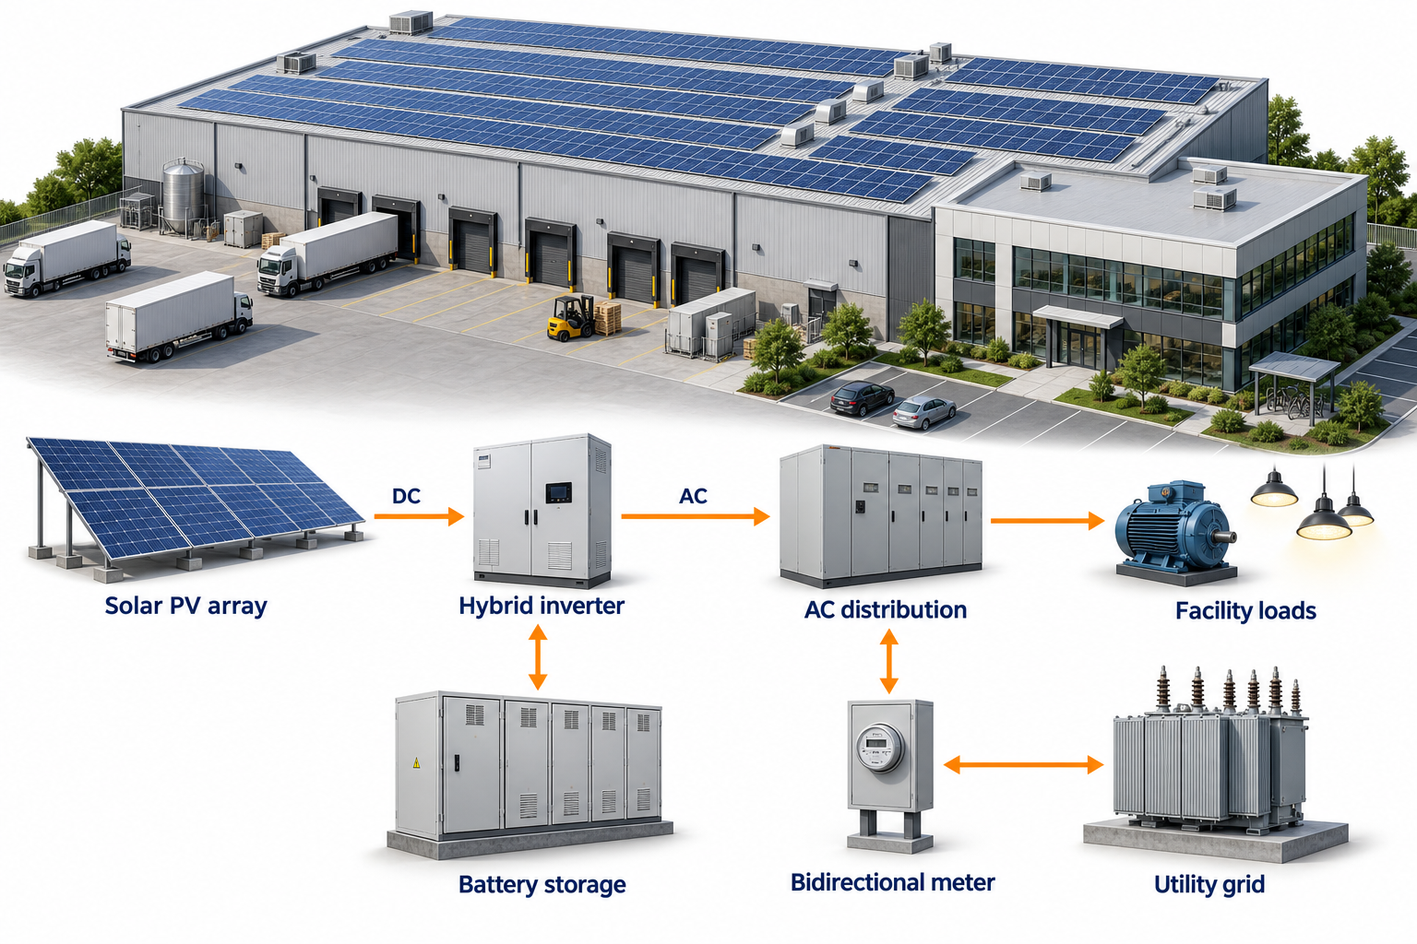
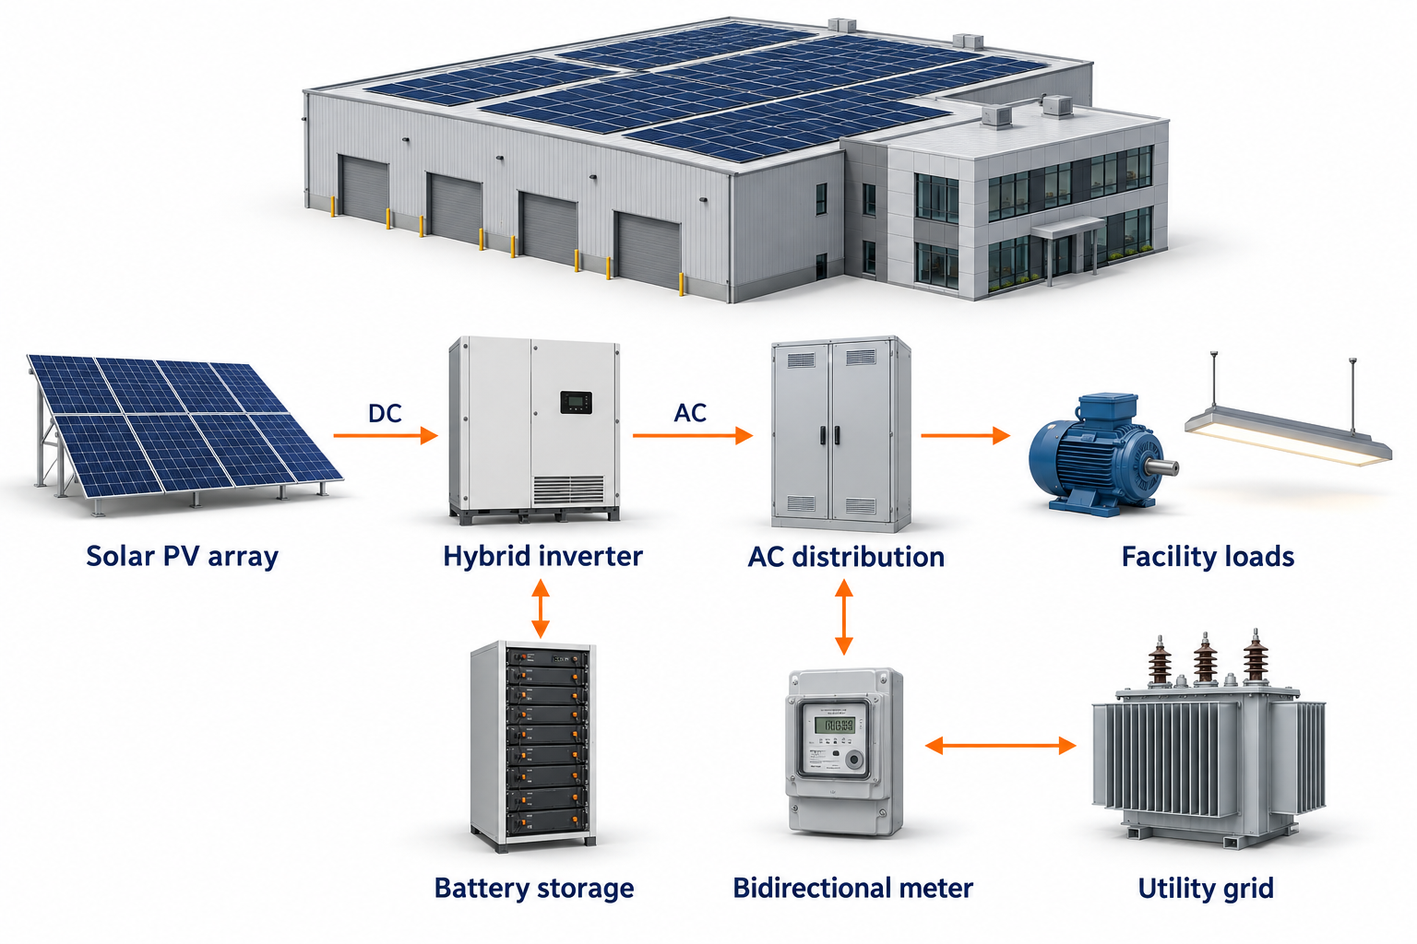
Refresh quotation component imagery and retain original cover

diff --git a/tools/quote-generator/quote-generator-component-images.js b/tools/quote-generator/quote-generator-component-images.js
@@ -1,103 +1,71 @@
-/** Real component photographs; provenance is also retained in assets/components/sources.json. */
+/** Component visuals and the explanations printed beside them. */
 (function (root) {
     'use strict';
 
     root.QuoteGeneratorComponentImages = {
         mounting: {
-            file: 'mounting.jpg',
+            file: 'mounting.png',
             label: 'Module support structure',
-            alt: 'PV mounting beams, support posts and foundations beneath an array.',
-            description: 'Rails, clamps and supporting members hold the array in position and transfer loads to the roof or foundation. The photograph shows a support example; fixings vary with the installation surface.',
-            width: 1600,
-            height: 1200,
-            author: 'Robert Scoble',
-            source: 'https://commons.wikimedia.org/wiki/File:Photovoltaic_mounting_system.jpg',
-            license: 'CC BY 2.0',
-            licenseUrl: 'https://creativecommons.org/licenses/by/2.0'
+            alt: 'Tilted module support frame showing rails, bracing, clamps and ballast feet.',
+            description: 'Rails, clamps and braced supports secure the modules and transfer loads to the installation surface. The fixing method, spacing and structural arrangement follow the detailed site design.',
+            width: 1536,
+            height: 1024
         },
         battery: {
-            file: 'battery.jpg',
+            file: 'battery.png',
             label: 'Battery energy storage',
-            alt: 'Containerised stationary battery energy storage installation.',
-            description: 'Battery systems combine storage modules, battery management and thermal control. This containerised example illustrates the equipment family; enclosure size and usable energy depend on the selected system.',
-            width: 1280,
-            height: 720,
-            author: 'Kecko from Eastern Switzerland',
-            source: 'https://commons.wikimedia.org/wiki/File:Tesvolt_battery_energy_storage_system_Rheineck.jpg',
-            license: 'CC BY 2.0',
-            licenseUrl: 'https://creativecommons.org/licenses/by/2.0'
+            alt: 'Modular rack battery cabinet with a controller and six battery modules.',
+            description: 'Rack modules store energy within a managed battery system. The controller monitors operating conditions, while the approved energy and power ratings determine the storage configuration.',
+            width: 1536,
+            height: 1024
         },
         dcdb: {
-            file: 'dcdb.jpg',
-            label: 'DC connection box',
-            alt: 'An open PV string connection box with labelled terminals.',
-            description: 'Example of labelled PV terminals. The system design specifies any required DC isolation, fusing and surge protection.',
-            width: 1161,
-            height: 1272,
-            author: 'Ja.hess10',
-            source: 'https://commons.wikimedia.org/wiki/File:Photovoltaic_Combiner_Box_20140710_151643.jpg',
-            license: 'CC BY-SA 4.0',
-            licenseUrl: 'https://creativecommons.org/licenses/by-sa/4.0'
+            file: 'dcdb.png',
+            label: 'DC distribution & protection',
+            alt: 'Open DC distribution enclosure with fuse holders, surge protection and an isolator.',
+            description: 'DC protection equipment brings string circuits together and provides the specified isolation, fusing and surge protection. Device ratings are coordinated with array voltage and current.',
+            width: 1536,
+            height: 1024
         },
         connectors: {
-            file: 'connectors.jpg',
+            file: 'connectors.png',
             label: 'Solar cables & connectors',
-            alt: 'Close views of MC4 photovoltaic cable connectors.',
+            alt: 'Coiled photovoltaic cable with a pair of locking solar connectors.',
             description: 'PV cables and compatible connectors link modules into strings. Their ratings and routing suit the array voltage and current.',
-            width: 1280,
-            height: 1972,
-            author: 'Orion Lawlor',
-            source: 'https://commons.wikimedia.org/wiki/File:MC4_Connector_Front_and_Top_View.jpg',
-            license: 'CC0',
-            licenseUrl: 'http://creativecommons.org/publicdomain/zero/1.0/deed.en'
+            width: 1536,
+            height: 1024
         },
         metering: {
-            file: 'metering.jpg',
+            file: 'metering.png',
             label: 'Energy metering',
-            alt: 'A three-phase digital electricity meter.',
+            alt: 'Three-phase digital electricity meter with a protected terminal compartment.',
             description: 'Meters record energy at agreed measurement points. The meter type and import/export arrangement follow the utility approval.',
-            width: 1280,
-            height: 961,
-            author: '277volts',
-            source: 'https://commons.wikimedia.org/wiki/File:Aclara_kV2c_FITZALL_3-phase_smart_electricity_meter.jpg',
-            license: 'CC BY-SA 4.0',
-            licenseUrl: 'https://creativecommons.org/licenses/by-sa/4.0'
+            width: 1536,
+            height: 1024
         },
         inverters: {
-            file: 'inverters.jpg',
+            file: 'inverters.png',
             label: 'Solar inverter',
-            alt: 'A three-phase solar string inverter.',
+            alt: 'Commercial solar inverter with cooling fins and cable connections.',
             description: 'The inverter converts DC electricity to AC and tracks the array operating point. Its protection and communications interfaces connect generation to the site supply and monitoring system.',
-            width: 1280,
-            height: 1707,
-            author: 'Asurnipal',
-            source: 'https://commons.wikimedia.org/wiki/File:Bregenz-Vorarlberger_Kraftwerke-Inverter_Test_bay-Inverter_SMA_Sunny_Tripower_STP_25-50-01ASD.jpg',
-            license: 'CC BY-SA 4.0',
-            licenseUrl: 'https://creativecommons.org/licenses/by-sa/4.0'
+            width: 1536,
+            height: 1024
         },
         acdb: {
-            file: 'acdb.jpg',
+            file: 'acdb.png',
             label: 'AC distribution & protection',
             alt: 'An open distribution board showing circuit breakers and wiring.',
-            description: 'Open-board example showing switching and protective devices. The offered AC enclosure, isolation and protection ratings follow the system design.',
-            width: 1280,
-            height: 1707,
-            author: 'Santeri Viinamäki',
-            source: 'https://commons.wikimedia.org/wiki/File:Opened_distribution_board.jpg',
-            license: 'CC BY-SA 4.0',
-            licenseUrl: 'https://creativecommons.org/licenses/by-sa/4.0'
+            description: 'AC distribution equipment connects inverter output to the facility through the specified switching and protection devices. Enclosure and circuit ratings follow the approved electrical design.',
+            width: 1536,
+            height: 1024
         },
         modules: {
-            file: 'modules.jpg',
+            file: 'modules.png',
             label: 'Solar modules',
-            alt: 'Photovoltaic modules arranged in an outdoor solar array.',
-            description: 'Cells within each module generate DC electricity. Modules are connected into strings to provide the voltage and current required by the inverter.',
-            width: 1280,
-            height: 853,
-            author: 'Grendelkhan',
-            source: 'https://commons.wikimedia.org/wiki/File:Ground_mounted_solar_panels.gk.jpg',
-            license: 'CC BY-SA 4.0',
-            licenseUrl: 'https://creativecommons.org/licenses/by-sa/4.0'
+            alt: 'Front and rear views of framed photovoltaic modules.',
+            description: 'Solar cells convert sunlight into DC electricity. The frame protects the laminate, while the rear junction box and connectors link each module into the array strings.',
+            width: 1536,
+            height: 1024
         }
     };
 }(typeof self !== 'undefined' ? self : this));

diff --git a/tools/quote-generator/quote-generator.html b/tools/quote-generator/quote-generator.html
@@ -21,7 +21,7 @@
     <link rel="stylesheet" href="../../global/styles/components.css">
     <link rel="stylesheet" href="../../global/styles/responsive.css">
     <link rel="stylesheet" href="../../global/styles/tool-responsive.css">
-    <link rel="stylesheet" href="quote-generator.css?v=20260911-section-fill-8">
+    <link rel="stylesheet" href="quote-generator.css?v=20260911-clean-imagery-1">
     <!-- Theme: stamps light or dark on <html> before the first paint -->
     <script src="../../global/scripts/theme.js"></script>
 </head>
@@ -590,29 +590,29 @@
 
     <!-- Comprehensive mode. Loaded after the Short generator so the existing
          eight-page proposal initializes exactly as before. -->
-    <script src="quote-generator-workspace-template.js?v=20260911-section-fill-8"></script>
-    <script src="quote-generator-config.js?v=20260911-section-fill-8"></script>
-    <script src="quote-generator-content.js?v=20260911-section-fill-8"></script>
-    <script src="quote-generator-bom-defaults.js?v=20260911-section-fill-8"></script>
-    <script src="quote-generator-model.js?v=20260911-section-fill-8"></script>
-    <script src="quote-generator-pagination.js?v=20260911-section-fill-8"></script>
-    <script src="quote-generator-calc.js?v=20260911-section-fill-8"></script>
-    <script src="quote-generator-storage.js?v=20260911-section-fill-8"></script>
-    <script src="quote-generator-editors.js?v=20260911-section-fill-8"></script>
-    <script src="quote-generator-validation-view.js?v=20260911-section-fill-8"></script>
-    <script src="quote-generator-component-images.js?v=20260911-section-fill-8"></script>
-    <script src="quote-generator-comprehensive-pages.js?v=20260911-section-fill-8"></script>
-    <script src="quote-generator-comprehensive-pages-a.js?v=20260911-section-fill-8"></script>
-    <script src="quote-generator-comprehensive-pages-b.js?v=20260911-section-fill-8"></script>
-    <script src="quote-generator-comprehensive-pages-c.js?v=20260911-section-fill-8"></script>
-    <script src="quote-generator-equipment-pages.js?v=20260911-section-fill-8"></script>
-    <script src="quote-generator-section-guidance.js?v=20260911-section-fill-8"></script>
-    <script src="quote-generator-annexures.js?v=20260911-section-fill-8"></script>
-    <script src="quote-generator-document-layout.js?v=20260911-section-fill-8"></script>
-    <script src="quote-generator-section-spacing.js?v=20260911-section-fill-8"></script>
-    <script src="quote-generator-preview.js?v=20260911-section-fill-8"></script>
-    <script src="quote-generator-input-navigation.js?v=20260911-section-fill-8"></script>
-    <script src="quote-generator-form.js?v=20260911-section-fill-8"></script>
+    <script src="quote-generator-workspace-template.js?v=20260911-clean-imagery-1"></script>
+    <script src="quote-generator-config.js?v=20260911-clean-imagery-1"></script>
+    <script src="quote-generator-content.js?v=20260911-clean-imagery-1"></script>
+    <script src="quote-generator-bom-defaults.js?v=20260911-clean-imagery-1"></script>
+    <script src="quote-generator-model.js?v=20260911-clean-imagery-1"></script>
+    <script src="quote-generator-pagination.js?v=20260911-clean-imagery-1"></script>
+    <script src="quote-generator-calc.js?v=20260911-clean-imagery-1"></script>
+    <script src="quote-generator-storage.js?v=20260911-clean-imagery-1"></script>
+    <script src="quote-generator-editors.js?v=20260911-clean-imagery-1"></script>
+    <script src="quote-generator-validation-view.js?v=20260911-clean-imagery-1"></script>
+    <script src="quote-generator-component-images.js?v=20260911-clean-imagery-1"></script>
+    <script src="quote-generator-comprehensive-pages.js?v=20260911-clean-imagery-1"></script>
+    <script src="quote-generator-comprehensive-pages-a.js?v=20260911-clean-imagery-2"></script>
+    <script src="quote-generator-comprehensive-pages-b.js?v=20260911-clean-imagery-1"></script>
+    <script src="quote-generator-comprehensive-pages-c.js?v=20260911-clean-imagery-1"></script>
+    <script src="quote-generator-equipment-pages.js?v=20260911-clean-imagery-1"></script>
+    <script src="quote-generator-section-guidance.js?v=20260911-clean-imagery-1"></script>
+    <script src="quote-generator-annexures.js?v=20260911-clean-imagery-1"></script>
+    <script src="quote-generator-document-layout.js?v=20260911-clean-imagery-1"></script>
+    <script src="quote-generator-section-spacing.js?v=20260911-clean-imagery-1"></script>
+    <script src="quote-generator-preview.js?v=20260911-clean-imagery-1"></script>
+    <script src="quote-generator-input-navigation.js?v=20260911-clean-imagery-1"></script>
+    <script src="quote-generator-form.js?v=20260911-clean-imagery-1"></script>
 </body>
 
 </html>

diff --git a/tests/quote-generator-component-images.test.js b/tests/quote-generator-component-images.test.js
@@ -18,9 +18,8 @@ const html = fs.readFileSync(path.join(tool, 'quote-generator.html'), 'utf8');
 assert.ok(html.indexOf('quote-generator-component-images.js') < html.indexOf('quote-generator-comprehensive-pages-a.js'),
     'image metadata must load before the page renderers');
 for (const photo of Object.values(context.QuoteGeneratorComponentImages)) {
-    assert.ok(fs.existsSync(path.join(tool, 'assets/components', photo.file)), 'export must use bundled photographs');
-    assert.ok(photo.author && photo.source.startsWith('https://commons.wikimedia.org/') && photo.licenseUrl,
-        'every photograph needs its author, source and licence');
+    assert.ok(fs.existsSync(path.join(tool, 'assets/components', photo.file)), 'export must use bundled equipment visuals');
+    assert.ok(photo.alt && photo.description, 'every component needs an accessible description and explanation');
 }
 
 const state = Model.createInitialState({ mode: 'comprehensive' });
@@ -32,14 +31,23 @@ const render = (sectionId, page) => context.QuoteGeneratorPages.renderers[sectio
 const before = JSON.stringify(state);
 const bos = render('balance-of-system');
 for (const key of ['connectors', 'dcdb', 'acdb', 'metering']) {
-    assert.ok(bos.includes(`assets/components/${key}.jpg`),
+    assert.ok(bos.includes(`assets/components/${key}.png`),
         `${key} must be illustrated even when its equipment table continues onto another source page`);
 }
 assert.equal(JSON.stringify(state), before, 'illustration must not change offered equipment');
 assert.match(render('system-architecture'), /commercial-ongrid-architecture\.png/);
+for (const id of ['cover', 'pv-module-technology', 'inverter-technology', 'mounting-structure',
+    'balance-of-system', 'system-architecture']) {
+    assert.doesNotMatch(render(id), /Wikimedia|creativecommons|Photo:|AI-generated|Representative photograph|cq-component-credit/i,
+        'the proposal contains equipment explanations without image credits or generation labels');
+}
 state.project.systemConfiguration = 'Hybrid';
 assert.match(render('system-architecture'), /commercial-hybrid-architecture\.png/);
 assert.match(render('system-architecture'), /designated backup circuits/);
+for (const id of ['battery-technology', 'system-architecture']) {
+    assert.doesNotMatch(render(id, { sectionId: id }), /Wikimedia|creativecommons|Photo:|AI-generated|Representative photograph|cq-component-credit/i,
+        'hybrid equipment explanations must also omit image credits and generation labels');
+}
 for (const id of ['dc-cables', 'protection', 'metering']) {
     Model.getBomCategory(state, id).rows = [];
 }

diff --git a/tools/quote-generator/quote-generator.css b/tools/quote-generator/quote-generator.css
@@ -1,21 +1,21 @@
 /* Quote Generator stylesheet manifest. Keep imports in this order.
    The ?v= query matches the one on the <link> in quote-generator.html —
    bump both together so imported sheets are never served stale. */
-@import url('./quote-generator-form.css?v=20260911-section-fill-8');
-@import url('./quote-generator-preview-layout.css?v=20260911-section-fill-8');
-@import url('./quote-generator-preview-details.css?v=20260911-section-fill-8');
-@import url('./quote-generator-preview-terms.css?v=20260911-section-fill-8');
-@import url('./quote-generator-responsive.css?v=20260911-section-fill-8');
-@import url('./quote-generator-print.css?v=20260911-section-fill-8');
+@import url('./quote-generator-form.css?v=20260911-clean-imagery-1');
+@import url('./quote-generator-preview-layout.css?v=20260911-clean-imagery-1');
+@import url('./quote-generator-preview-details.css?v=20260911-clean-imagery-1');
+@import url('./quote-generator-preview-terms.css?v=20260911-clean-imagery-1');
+@import url('./quote-generator-responsive.css?v=20260911-clean-imagery-1');
+@import url('./quote-generator-print.css?v=20260911-clean-imagery-1');
 /* Comprehensive mode. Loaded last so the Comprehensive workspace, preview
    navigation and page styles win over the shared form and print rules. */
-@import url('./quote-generator-workspace.css?v=20260911-section-fill-8');
+@import url('./quote-generator-workspace.css?v=20260911-clean-imagery-1');
 /* Straight continuation of the sheet above — keep the two adjacent. */
-@import url('./quote-generator-workspace-editors.css?v=20260911-section-fill-8');
-@import url('./quote-generator-input-design.css?v=20260911-section-fill-8');
-@import url('./quote-generator-preview-nav.css?v=20260911-section-fill-8');
-@import url('./quote-generator-proposal-comprehensive.css?v=20260911-section-fill-8');
-@import url('./quote-generator-document-layout.css?v=20260911-section-fill-8');
+@import url('./quote-generator-workspace-editors.css?v=20260911-clean-imagery-1');
+@import url('./quote-generator-input-design.css?v=20260911-clean-imagery-1');
+@import url('./quote-generator-preview-nav.css?v=20260911-clean-imagery-1');
+@import url('./quote-generator-proposal-comprehensive.css?v=20260911-clean-imagery-1');
+@import url('./quote-generator-document-layout.css?v=20260911-clean-imagery-1');
 
 /* iOS Safari zooms the whole page when a field under 16px takes focus, and
    never zooms back out. The workspace editors and the BOM table set their

diff --git a/tools/quote-generator/quote-generator-proposal-comprehensive-blocks.css b/tools/quote-generator/quote-generator-proposal-comprehensive-blocks.css
@@ -122,7 +122,7 @@
     color: var(--qp-muted);
 }
 
-/* Component photographs stay attached to their explanation and source in print. */
+/* Equipment visuals stay attached to their explanation in print. */
 .cq-component-photo {
     display: grid;
     grid-template-columns: 66mm minmax(0, 1fr);
@@ -140,15 +140,12 @@
     width: 100%;
     height: 46mm;
     object-fit: contain;
-    background: var(--qp-off-white, #f8fafc);
+    background: #fff;
 }
 
 .cq-component-photo figcaption { min-width: 0; }
 .cq-component-title { display: block; font-size: 10pt; line-height: 1.3; color: var(--qp-navy); }
 .cq-component-photo p { margin: 2mm 0 0; font-size: 9pt; line-height: 1.5; color: var(--qp-ink); }
-.cq-component-photo .cq-component-example { font-size: 8pt; color: var(--qp-muted); }
-.cq-component-photo .cq-component-credit { font-size: 7.5pt; color: var(--qp-muted); }
-.cq-component-credit a { color: inherit; text-decoration: underline; text-underline-offset: 1px; }
 .cq-component-photo-compact { display: block; margin-bottom: 0; }
 .cq-component-photo-compact img { height: 35mm; margin-bottom: 3mm; }
 .cq-component-photo-compact .cq-component-title { font-size: 9.5pt; }

diff --git a/tools/quote-generator/quote-generator-comprehensive-pages.js b/tools/quote-generator/quote-generator-comprehensive-pages.js
@@ -162,7 +162,7 @@
         return (lastStop > limit * 0.6 ? cut.slice(0, lastStop + 1) : cut.trim() + '…');
     }
 
-    /** Local photographs and credits are paired so each printed image stays attributable. */
+    /** Keep each equipment visual with its functional explanation. */
     function componentPhoto(key, compact) {
         const photo = root.QuoteGeneratorComponentImages && root.QuoteGeneratorComponentImages[key];
         if (!photo) return '';
@@ -172,10 +172,6 @@
             <figcaption>
                 <strong class="cq-component-title">${esc(photo.label)}</strong>
                 <p>${esc(photo.description)}</p>
-                <p class="cq-component-example">Representative photograph; offered equipment follows the schedule.</p>
-                <p class="cq-component-credit">Photo: ${esc(photo.author)} ·
-                    <a href="${esc(photo.source)}">Wikimedia Commons</a> ·
-                    <a href="${esc(photo.licenseUrl)}">${esc(photo.license)}</a></p>
             </figcaption>
         </figure>`;
     }

diff --git a/tools/quote-generator/quote-generator-comprehensive-pages-a.js b/tools/quote-generator/quote-generator-comprehensive-pages-a.js
@@ -646,8 +646,7 @@
                     <img src="${schematic}" width="1536" height="1024"
                         alt="Commercial and industrial ${esc(state.project.systemConfiguration)} solar energy flow"
                         class="cq-schematic">
-                    <figcaption class="cq-figure-caption">Illustrative C&amp;I ${esc(state.project.systemConfiguration)}
-                        energy flow. AI-generated concept; building, equipment and metering are indicative.
+                    <figcaption class="cq-figure-caption">${esc(state.project.systemConfiguration)} energy flow for a commercial or industrial facility.
                         ${isHybrid ? 'Backup applies only to the designated backup circuits.' : ''}</figcaption>
                 </figure>
                 <div class="cq-steps">

diff --git a/tools/quote-generator/quote-generator-proposal-comprehensive.css b/tools/quote-generator/quote-generator-proposal-comprehensive.css
@@ -20,7 +20,7 @@
    quote-generator.css.
    ============================================ */
 
-@import url('./quote-generator-proposal-comprehensive-blocks.css?v=20260911-section-fill-8');
+@import url('./quote-generator-proposal-comprehensive-blocks.css?v=20260911-clean-imagery-1');
 
 .cq-page {
     /* Same palette as the Short Proposal so both documents look like one house. */

diff --git a/docs/scratchpads/quote-generator-clean-imagery.md b/docs/scratchpads/quote-generator-clean-imagery.md
@@ -1,0 +1,21 @@
+# Clean quotation imagery
+
+## Goal and decisions
+- Replace the long quotation cover, eight component pictures and both commercial/industrial system diagrams with new clean-background visuals.
+- Use a consistent white backdrop, restrained navy and neutral equipment colours, realistic geometry and generous clear margins.
+- Remove image credits, source links and generation labels from the quotation. Captions explain equipment functions without claiming an exact supplied make/model.
+- Retain the established typography, section boundaries and minimum 80% final-page fill.
+- Verify all replacement assets and the rendered On-Grid and Hybrid samples before delivery.
+- The user authorized committing and pushing the completed image changes after restoring the original cover.
+
+## Verification
+- Replaced all 11 visuals and removed the eight obsolete component JPEGs and attribution metadata. Captions now explain the pictured equipment.
+- All 31 Node test files pass, including image asset existence, configuration selection and omission of attribution labels.
+- Browser layout checks pass for On-Grid (39 pages), Hybrid (41 pages) and dense-content stress (55 pages). All section final pages meet the 80% threshold, with no overflow or missing source text.
+- Rendered both sample PDFs to A4 and visually inspected every replacement in context, including cover, both architecture diagrams, all eight components and adjacent continuation pages.
+- Updated local sample PDFs under output/pdf; sample documents remain local and are excluded from the source commit.
+
+## Cover follow-up
+- Restore the original `Cover Page Image.png` on the long quotation at the user's request; retain the eight new component images and both diagrams.
+- Refresh both sample PDFs with the restored cover.
+- Both refreshed covers were visually verified; final PDF lengths remain 39 and 41 pages. All 31 tests pass before commit.

diff --git a/tools/quote-generator/assets/components/README.md b/tools/quote-generator/assets/components/README.md
@@ -1,7 +1,5 @@
-# Component photography
+# Component visuals
 
-These are real photographs illustrating equipment families, not representations of the exact offered make/model. Files are unchanged copies of their Commons originals or Commons-generated thumbnails. No retouching or cropping was applied. CSS contains each entire photograph.
+White-background equipment illustrations used by the comprehensive quotation. Each PNG has a matching accessible description and functional caption in quote-generator-component-images.js.
 
-Author, original title, source link and licence are recorded in sources.json and credited alongside each photograph in the proposal. CC BY-SA licences apply to the respective photographs, not the surrounding independent proposal content. The two architecture images outside this directory were generated with the built-in Codex image generator; their prompts are stored in architecture-prompts.json.
-
-Generated artwork: [On-Grid architecture](../commercial-ongrid-architecture.png), [Hybrid architecture](../commercial-hybrid-architecture.png). Exact generation prompts: [architecture-prompts.json](../architecture-prompts.json).
+The cover and system diagrams are stored in the parent assets folder. Artwork specifications are retained in visual-prompts.json.
